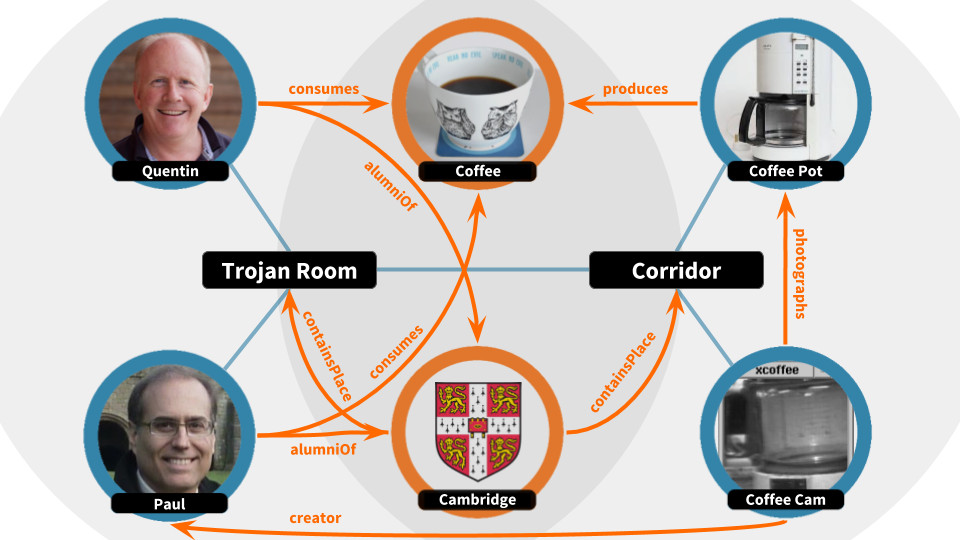
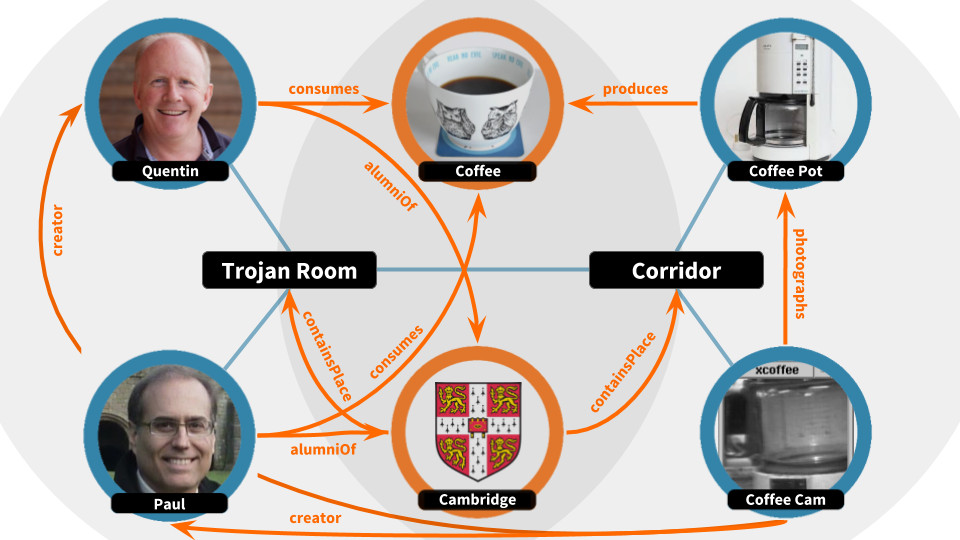
Completed first draft

diff --git a/context/index.html b/context/index.html
@@ -57,15 +57,15 @@
           <div class="inner">
             <section>
               <header>
-                <h3> A vision in three layers </h3>
+                <h3> Hyperlocal context </h3>
               </header>
               <p> Our vision is ubiquitous machine-contextual-awareness at the service of humanity.  Sounds ambitious?  <i>It is!</i> &nbsp; From a technical standpoint, however, we believe the underlying framework is in place and consists of the following three layers: </p>
-              <ul>
+              <ol>
                 <li> real-time location on a human scale
-                <li> the web of things (and people!)
+                <li> the web of things <i>(and people!)</i>
                 <li> the semantic web
-              </ul>
-              <p> If a tiny team at the University of Cambridge was able to <a href="https://www.cl.cam.ac.uk/coffee/qsf/coffee.html" target="_blank">connect a coffee pot to the Internet in 1991</a>, <i>providing a useful service</i>, and soon thereafter <a href="http://www.cl.cam.ac.uk/coffee/coffee.html" target="_blank">leveraging the standards of the nascent World Wide Web</a>, surely our ambition is justifiable! </p>
+              </ol>
+              <p> If a tiny team at the University of Cambridge was able to <a href="https://www.cl.cam.ac.uk/coffee/qsf/coffee.html" target="_blank">connect a coffee pot to the Internet in 1991</a>, and soon thereafter <a href="http://www.cl.cam.ac.uk/coffee/coffee.html" target="_blank">leverage the standards of the nascent World Wide Web</a> for anyone anywhere to view in their browser, surely our ambition is justifiable! </p>
             </section>
             <section>
               <header>
@@ -74,28 +74,38 @@
               <p> If machines are to better serve humans through contextual awareness, they must understand that we move around plenty and interact with the objects around us (case in point: coffee pots).  Fortunately, real-time location systems (RTLS) have been designed for this purpose.  While these tend to focus on tracking a few things with precise location, we require instead <b>the ability to track <i>anything</i> with "good enough" location</b>. </p>
               <p> The illustration below shows four common products detected by two sensors listening for their Bluetooth Low Energy (BLE) advertising packets. </p>
               <span class="image fit"><img src="../images/hlc-location.jpg" /></span>
-              <p> Here, machines understand that a wearable and smartphone are currently closest to the sensor on the left, and a beacon and webcam are currently closest to the sensor on the right.  Moreover, given that the range of the radios effectively limits them to a human scale, machines can infer with "good enough" chances that all four products are relatively close to one another. </p>
+              <p> Here, machines understand that two BLE devices (wearable and smartphone) are currently closest to the sensor on the left, and two others (beacon and webcam) are currently closest to the sensor on the right.  Moreover, given that the range of the radios effectively limits them to a human scale, machines can infer with "good enough" chances that all four devices are relatively close to one another. </p>
+              <p> As there are now <i>billions</i> of BLE devices across the planet, and an order of magnitude more RFID tags with similar range, the ability to identify and locate almost anything on a human scale becomes plausible, if not likely. </p>
             </section>
             <section>
               <header>
                 <h3> Association with the Web of Things </h3>
               </header>
-              <p> If machines are to better serve humans through contextual awareness, they must be able to represent people, products and places in a way <i>they</i> can understand.  Fortunately, the Web of Things (WoT) has been designed for this purpose, using existing Web standards to provide <b>the ability for real-world objects to exist on the Web</b>. </p>
+              <p> If machines are to better serve humans through contextual awareness, they must be able to represent people, products and places in a way <i>they</i> can understand.  Fortunately, the <a href="https://www.w3.org/WoT/" target="_blank">Web of Things (WoT)</a> has been designed for this purpose, using existing Web standards to provide <b>the ability for real-world objects to exist on the Web</b>. </p>
               <p> Paying homage to the Trojan Room Coffee Pot, the illustration below shows how the wearable has been associated with Quentin, the smartphone with Paul, the beacon with the coffee pot and the webcam with its latest image capture.  The sensors too have been associated with real-world places, namely the Trojan Room and the adjoining corridor. </p>
               <span class="image fit"><img src="../images/hlc-association.jpg" /></span>
-              <p> Here, machines understand the people, products and places within the current hyperlocal context because each has a machine-readable profile hosted on the Web.  The trick is to associate the device identifiers with the URL of their profile.  This association can be made using a variety of mechanisms: </p>
+              <p> Here, machines understand that Quentin and Paul are currently in the Trojan Room and the coffee pot and coffee cam and are in the nearby corridor.  Such understanding was achieved by <i>associating</i> the data advertised by each device (ex: Paul's smartphone) with the corresponding URL of their existing profile on the Web.  This association can be made using a variety of mechanisms: </p>
               <ul>
-                <li> inclusion of the URL in the advertising packet (ex: Eddystone)
-                <li> lookup via an implicit identifier association (ex: Sniffypedia)
+                <li> inclusion of the URL in the advertising packet (ex: <a href="https://github.com/google/eddystone#eddystone" target="_blank">Eddystone</a>)
+                <li> lookup via an implicit identifier association (ex: <a href="https://sniffypedia.org" target="_blank">Sniffypedia</a>)
                 <li> lookup via an explicit identifier association
-              </ul> 
+              </ul>
+              <p> We maintain an open source library for the decoding of advertising packets called <a href="https://github.com/reelyactive/advlib#advlib" target="_blank">advlib</a> (<a href="http://ieeexplore.ieee.org/document/7389121/" target="_blank">presented at IEEE WF-IoT 2015</a>), and an open source associations index and profile database called <a href="https://sniffypedia.org" target="_blank">Sniffypedia</a>.  Together, these already provide the ability for machines to identify and associate most BLE devices with an existing profile on the Web. </p>
             </section>
             <section>
               <header>
-                <h3> Semantics </h3>
+                <h3> Adoption of The Semantic Web </h3>
               </header>
-              <p> Description to come... </p>
+              <p> If machines are to better serve humans through contextual awareness, they must be able to represent the relationships among people, products and places in a way <i>they</i> can understand.  Fortunately, the Semantic Web has been proposed for this purpose, and the recent adoption of enabling standards such as <a href="http://json-ld.org/" target="_blank">JSON-LD</a> and <a href="http://schema.org/" target="_blank">Schema.org</a> by the major search engines is an encouraging step towards <b>the ability for machines to understand the relationships among both real-world entities and abstract concepts. </b> </p>
+              <p> Building on our example, the illustration below shows how relationships among the actors are encoded, and the concept of both coffee and the University of Cambridge introduced. </p> 
               <span class="image fit"><img src="../images/hlc-semantics.jpg" /></span>
+              <p> Here, machines understand that Quentin and Paul, both coffee drinkers and Cambridge alumni, happen to be, <i>right now</i>, together in the Trojan Room adjacent to the corridor with the coffee contraption they created a quarter-century ago.  Could those same machines understand the level of coffee and estimate demand based on the profiles of the current occupants?  <i>Yes!</i>&nbsp;  Have we reached the promised land of programmatic coffee?  <i>Perhaps!</i>&nbsp;  As long one can automate the replenishment of water, filter and grounds... </p>
+            </section>
+            <section>
+              <header>
+                <h3> Hyperlocal context at your service </h3>
+              </header>
+              <p> <a href="../technology/">Our technology</a> incorporates these three layers, leveraging the Web and open standards whenever possible, in order to serve what we call <b>hyperlocal context</b>.  The machine-contextual-awareness afforded by this service can be used to simply observe and measure real-world behaviour, and, in keeping with our vision, to enable next-generation programmatic interactions for the benefit of humanity. </p>
             </section>
           </div>
         </section>
